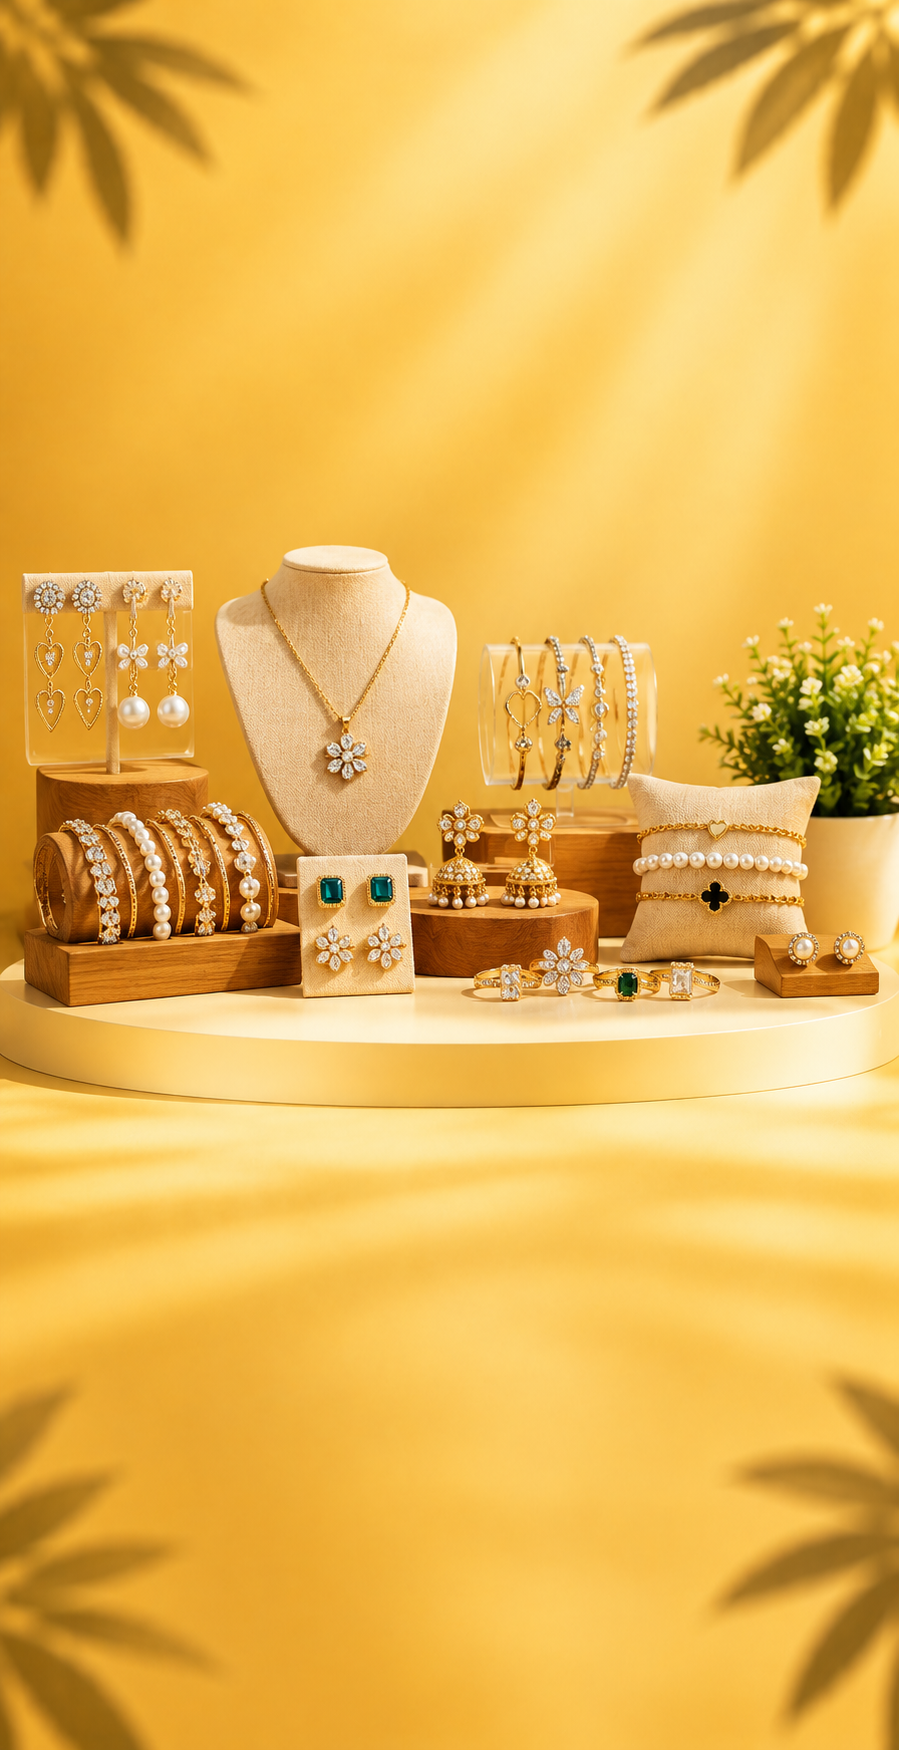
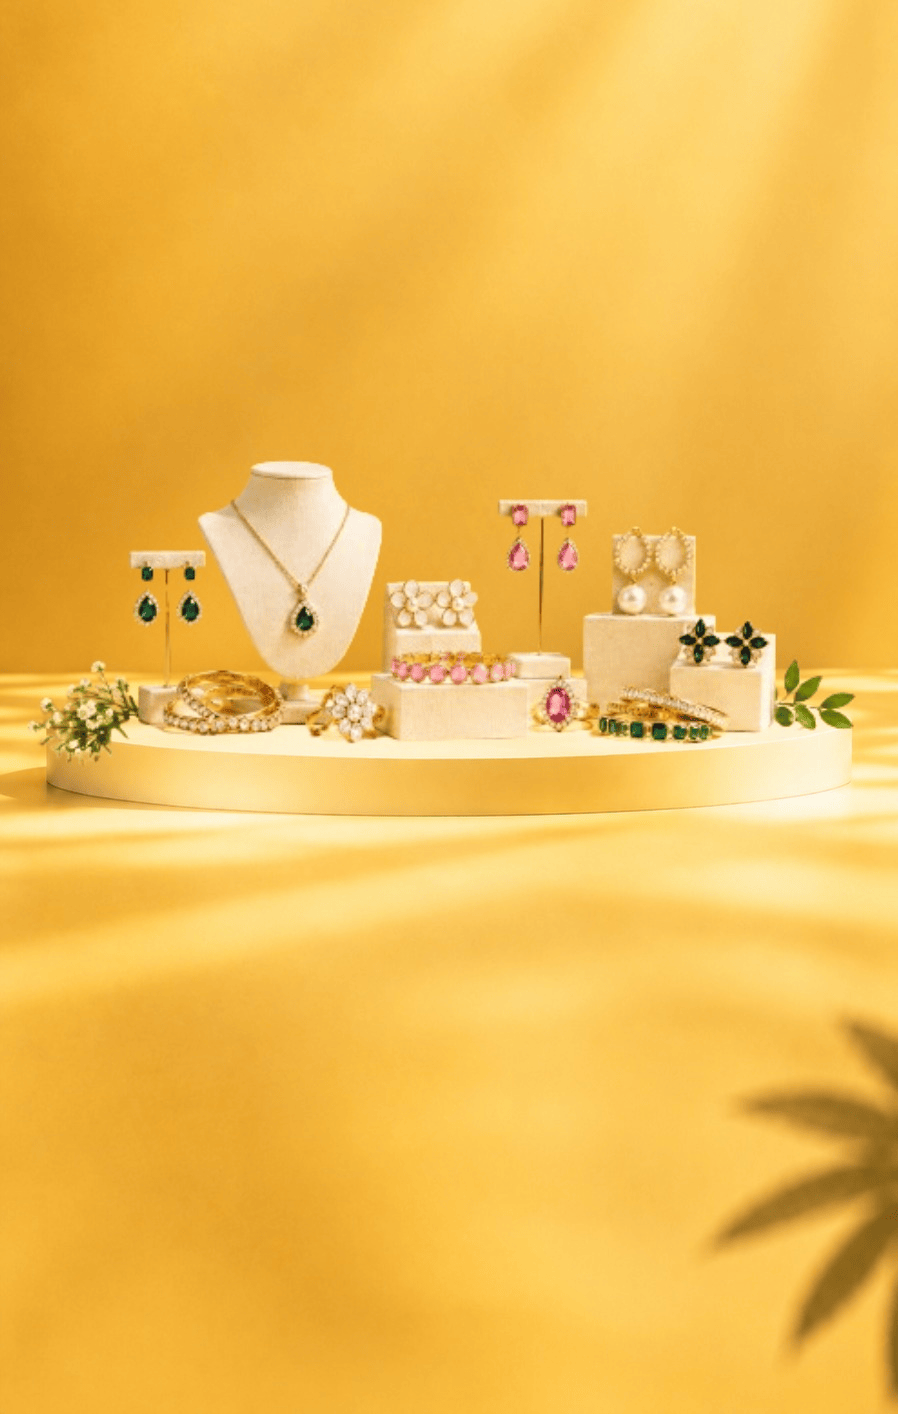
feat: expand hero slider to 7 slides with new desktop + mobile images and updated mobile images

diff --git a/src/components/HeroSlider.tsx b/src/components/HeroSlider.tsx
@@ -4,13 +4,21 @@ import './HeroSlider.css';
 const sliderFiles = [
   'Hair Accessories.png',
   'Artificial Jewels.png',
+  'Bow & Scrunchies.png',
   'Hand Bags.png',
+  'Key Chains.png',
+  'Mobile Charms.png',
+  'Men Accessories.png',
 ];
 
 const slideCopy: { subtitle: string; sideText: string }[] = [
   { subtitle: 'FOR EVERY STYLE, EVERY MOOD', sideText: 'Small ♡\nAccessories\nBig Vibes' },
   { subtitle: 'STYLE IT YOUR WAY', sideText: 'Little Things\nMake\nBig Moments' },
+  { subtitle: 'BOWS & BANDS FOR EVERY MOOD', sideText: 'Bows + Bands\nPocket-Sized\nCharm' },
   { subtitle: 'CARRY YOUR STYLE', sideText: 'Totes, Clutches\n& Mini\nBags' },
+  { subtitle: 'LITTLE CHAINS, BIG PERSONALITY', sideText: 'Charms that\nFollow You\nEverywhere' },
+  { subtitle: 'CHARM YOUR PHONE YOUR WAY', sideText: 'Cute Charms\nFor Your\nPhone' },
+  { subtitle: 'CURATED FOR HIM', sideText: 'Sharp & Smart\nEveryday\nEssentials' },
 ];
 
 const titleFromFile = (file: string) => file.replace(/\.[^.]+$/, '').replace(/[-_]+/g, ' ');
